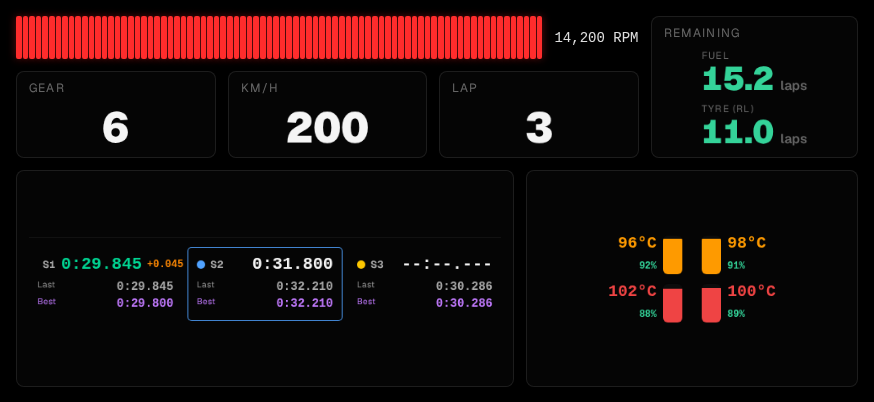
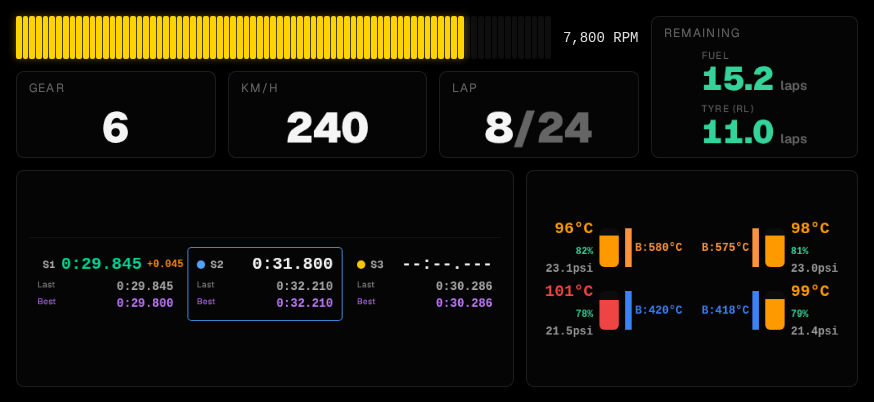
Use comprehensive visual-contract stories for Storybook snapshots (#321)
## Summary

Replace incidental Storybook snapshot targets with explicit,
deterministic visual-contract stories. Shared layouts now capture every
supported field in one representative image, while genuinely different
layouts and interaction states keep separate baselines.

## Problem

Storybook baselines previously mixed dedicated visual coverage with
ordinary simulator stories and default args. Combo Dash 1 and Combo Dash
2 used FM 2023 stories, so their images inherited FM 2023 capability
gaps and could omit supported brake temperatures or tire pressures.
Fixture-default changes could therefore create screenshot churn without
any component-layout change.

## Changes

- Add a simulator-independent `fakeAllDataTelemetryView` with coherent
engine, fuel, timing, tire, brake, weather, aero, ERS, damage, and
session values.
- Add dedicated `All Data` exports for Combo Dash 1 and Combo Dash 2
while preserving FM 2023, F1 2025, ACC, and AC Evo stories for manual
Storybook exploration.
- Rename simulator-specific live-dashboard snapshot exports to `Visual
Contract`, making their stable purpose explicit.
- Rename Setup Browser snapshot exports to `All Data` and `All Data Read
Only`.
- Point every dashboard snapshot case at an explicit story ID rather
than a default or first export.
- Document snapshot-selection rules beside the shared inventory:
comprehensive stories for shared layouts, separate baselines only for
layout or interaction contracts, and behavioral tests for simulator
[…]

diff --git a/client/src/stories/fakeData.ts b/client/src/stories/fakeData.ts
@@ -8,6 +8,7 @@ import type { LapMeta } from "../../../shared/racing/sessions/types";
 import type { LiveTelemetryFrameMessageV1, LiveTelemetrySchemaMessageV1 } from "../../../shared/telemetry/live/contracts";
 import type { TelemetryPacket } from "../../../shared/telemetry/types";
 import { buildLiveTelemetryView } from "../lib/live-telemetry-view";
+import type { LiveTelemetryView } from "../lib/live-telemetry-view";
 
 // ── Shared base packet fields ────────────────────────────────────────────────
 
@@ -614,6 +615,75 @@ export const fakeAcEvoPacket: TelemetryPacket = { ...fakeAccPacket, gameId: "ac-
 export const fakeForzaSemanticFixture = makeSemanticFixture(fakeForzaPacket);
 export const fakeAccSemanticFixture = makeSemanticFixture(fakeAccPacket);
 export const fakeAcEvoSemanticFixture = makeSemanticFixture(fakeAcEvoPacket);
+
+// Canonical visual-contract fixture. `simulator` satisfies telemetry-view
+// identity only; snapshot stories never derive field availability from it.
+export const fakeAllDataTelemetryView: LiveTelemetryView = {
+  simulator: "f1-2025",
+  streamId: "storybook-all-data",
+  sessionId: 1,
+  sequence: 1,
+  observedAtMs: basePacket.TimestampMS,
+  identity: {
+    carOrdinal: 42,
+    trackOrdinal: 7,
+    carClass: 6,
+    performanceIndex: 900,
+    drivetrainType: 1,
+  },
+  motion: {
+    speedMps: 66.7,
+    acceleration: { x: 0.12, z: 0.05 },
+    position: { x: 120.5, z: 340.2 },
+    attitude: { roll: 0.01, pitch: -0.02, yaw: 0.15 },
+    distanceM: 3240,
+  },
+  inputs: { throttle: 0.78, brake: 0, steer: 0.03, gear: 7 },
+  engine: { rpm: 7800, idleRpm: 1200, maxRpm: 9000, powerW: 430000, torqueNm: 580, boost: 0.6 },
+  fuel: { amount: 42.5, capacity: 110 },
+  timing: {
+    lapNumber: 8,
+    currentLapS: 61.645,
+    lastLapS: 92.341,
+    bestLapS: 91.98,
+    totalLaps: 24,
+    lapFraction: 0.6,
+    racePosition: 3,
+  },
+  tires: {
+    temperatureC: { fl: 96, fr: 98, rl: 101, rr: 99 },
+    wear: { fl: 0.18, fr: 0.19, rl: 0.22, rr: 0.21 },
+    pressurePsi: { fl: 23.1, fr: 23, rl: 21.5, rr: 21.4 },
+    slipAngleRad: { fl: 0.5, fr: 0.5, rl: 0.8, rr: 0.8 },
+    slipRatio: { fl: 0.02, fr: 0.02, rl: 0.04, rr: 0.04 },
+    combinedSlip: { fl: 0.6, fr: 0.6, rl: 0.9, rr: 0.9 },
+    rotationRadS: { fl: 180.5, fr: 181.2, rl: 183.4, rr: 182.8 },
+    suspensionNormalized: { fl: 0.42, fr: 0.44, rl: 0.48, rr: 0.46 },
+    suspensionTravelM: { fl: 0.025, fr: 0.026, rl: 0.028, rr: 0.027 },
+    brakeTemperatureC: { fl: 580, fr: 575, rl: 420, rr: 418 },
+    brakePadRemainingMm: { fl: 28.4, fr: 28.2, rl: 28.6, rr: 28.5 },
+    radiusM: { fl: 0.33, fr: 0.33, rl: 0.33, rr: 0.33 },
+    surfaceRumble: { fl: 0, fr: 0, rl: 0, rr: 0 },
+    puddleDepth: { fl: 0, fr: 0, rl: 0, rr: 0 },
+    onRumbleStrip: { fl: 0, fr: 0, rl: 0, rr: 0 },
+    compound: "soft",
+  },
+  weather: { kind: 0, airTemperatureC: 28, trackTemperatureC: 42, rainPercent: 15 },
+  aero: { drsActive: false, drsAvailable: true },
+  ers: { storeJ: 2800000, deployMode: 1, deployedThisLapJ: 800000, harvestedThisLapJ: 400000 },
+  damage: {
+    frontLeftWingPct: 0,
+    frontRightWingPct: 0,
+    rearWingPct: 0,
+    floorPct: 2,
+    diffuserPct: 0,
+    sidepodPct: 0,
+  },
+  session: { type: "Race" },
+  race: { pitStatus: 0 },
+  competitors: [],
+  statusBySemanticId: {},
+};
 
 // ── Sector Data ──────────────────────────────────────────────────────────────
 // We are on lap 5, partway through S2.

diff --git a/client/src/stories/snapshot-cases.ts b/client/src/stories/snapshot-cases.ts
@@ -12,47 +12,54 @@ export interface StorybookSnapshotCase {
 }
 
 // Single screenshot inventory for CI and `bun run ui:diff`.
-// Rendering environments may differ, but both paths must capture these cases.
+// Every case names a dedicated export. Shared layouts use comprehensive All Data
+// or All States stories; separate cases exist only for layout or interaction
+// contracts. Simulator capability differences belong in behavioral tests.
+// Never select a default or first export implicitly.
 export const DASHBOARD_SNAPSHOT_CASES: readonly StorybookSnapshotCase[] = [
+  // Distinct baselines: each simulator owns a different live-dashboard layout.
   {
     name: "F1LiveDashboard",
-    id: "dashboards-f1livedashboard--default",
+    id: "dashboards-f1livedashboard--visual-contract",
     outputName: "snapshot-F1LiveDashboard.png",
   },
   {
     name: "ForzaLiveDashboard",
-    id: "dashboards-forzalivedashboard--default",
+    id: "dashboards-forzalivedashboard--visual-contract",
     outputName: "snapshot-ForzaLiveDashboard.png",
   },
   {
     name: "AccLiveDashboard",
-    id: "dashboards-acclivedashboard--default",
+    id: "dashboards-acclivedashboard--visual-contract",
     outputName: "snapshot-AccLiveDashboard.png",
   },
+  // Distinct interaction contract: read-only setup browsing removes owner actions.
   {
     name: "SetupBrowser",
-    id: "setups-setupbrowser--default",
+    id: "setups-setupbrowser--all-data",
     outputName: "snapshot-SetupBrowser.png",
   },
   {
     name: "SetupBrowserReadOnly",
-    id: "setups-setupbrowser--read-only",
+    id: "setups-setupbrowser--all-data-read-only",
     outputName: "snapshot-SetupBrowserReadOnly.png",
   },
+  // Shared Combo layouts use simulator-independent fixtures with every supported field.
   {
     name: "ComboDash1",
-    id: "dashes-combo-combo-dash-1--fm-2023",
+    id: "dashes-combo-combo-dash-1--all-data",
     outputName: "snapshot-ComboDash1.png",
     viewport: { width: 874, height: 402 },
   },
   {
     name: "ComboDash2",
-    id: "dashes-combo-combo-dash-2--fm-2023",
+    id: "dashes-combo-combo-dash-2--all-data",
     outputName: "snapshot-ComboDash2.png",
     viewport: { width: 874, height: 402 },
   },
 ];
 
+// Dedicated All States story covers semantic text and interaction states together.
 export const THEME_SNAPSHOT_CASE: StorybookSnapshotCase = {
   name: "theme semantic states",
   id: "design-system-theme-contract--states",
@@ -62,6 +69,7 @@ export const THEME_SNAPSHOT_CASE: StorybookSnapshotCase = {
 };
 
 export const REUSABLE_UI_SNAPSHOT_CASES: readonly StorybookSnapshotCase[] = [
+  // Primitive stories enumerate visual variants or hold one deterministic open state.
   {
     name: "ReusableButtons",
     id: "ui-reusable-primitives--button-variants",
@@ -125,6 +133,7 @@ export const REUSABLE_UI_SNAPSHOT_CASES: readonly StorybookSnapshotCase[] = [
     viewport: { width: 900, height: 650 },
     readyRole: "menu",
   },
+  // Analysis panels use complete fixed frames; open menu is a distinct interaction state.
   {
     name: "AnalyseDataPanelParity",
     id: "screens-analysedatapanelparity--loaded-main-parity",

diff --git a/client/src/stories/dashes/ComboDash2.stories.tsx b/client/src/stories/dashes/ComboDash2.stories.tsx
@@ -5,7 +5,7 @@ import { useEffect } from "react";
 import type { GameId } from "../../../../shared/games/ids";
 import { ComboDash2 } from "../../components/dashes/ComboDash2";
 import { useGameStore } from "../../stores/game";
-import { fakeAccSemanticFixture, fakeAcEvoSemanticFixture, fakeF1SemanticFixture, fakeForzaSemanticFixture, generateFakeSessionLaps } from "../fakeData";
+import { fakeAccSemanticFixture, fakeAcEvoSemanticFixture, fakeAllDataTelemetryView, fakeF1SemanticFixture, fakeForzaSemanticFixture, generateFakeSessionLaps } from "../fakeData";
 import type { LiveTelemetryView } from "../../lib/live-telemetry-view";
 
 const queryClient = new QueryClient({
@@ -15,8 +15,10 @@ const queryClient = new QueryClient({
 const MAX_LAPS = 100;
 
 type Game = "fm-2023" | "f1-2025" | "acc" | "ac-evo";
+type Fixture = Game | "all-data";
 
-const VIEWS: Record<Game, LiveTelemetryView> = {
+const VIEWS: Record<Fixture, LiveTelemetryView> = {
+  "all-data": fakeAllDataTelemetryView,
   "fm-2023": fakeForzaSemanticFixture.view,
   "f1-2025": fakeF1SemanticFixture.view,
   acc: fakeAccSemanticFixture.view,
@@ -42,16 +44,15 @@ function GameIdSync({ game }: { game: Game }) {
 }
 
 interface Args {
-  game: Game;
+  game: Fixture;
   lapCount: number;
 }
 
 function render({ game, lapCount }: Args) {
   const laps = generateFakeSessionLaps(lapCount);
-  const view = VIEWS[game];
   return (
     <QueryClientProvider client={queryClient}>
-      <GameIdSync game={game} />
+      {game === "all-data" ? null : <GameIdSync game={game} />}
       <div
         style={{
           position: "relative",
@@ -62,7 +63,7 @@ function render({ game, lapCount }: Args) {
           transform: "translateZ(0)",
         }}
       >
-        {withRouter(<ComboDash2 view={view} sessionLaps={laps} />)}
+        {withRouter(<ComboDash2 view={VIEWS[game]} sessionLaps={laps} />)}
       </div>
     </QueryClientProvider>
   );
@@ -94,6 +95,12 @@ const meta: Meta<Args> = {
 
 export default meta;
 type Story = StoryObj<Args>;
+
+export const AllData: Story = {
+  name: "All Data",
+  args: { game: "all-data", lapCount: 10 },
+  render,
+};
 
 export const FM2023: Story = { name: "FM 2023", args: { game: "fm-2023" }, render };
 export const F12025: Story = { name: "F1 2025", args: { game: "f1-2025" }, render };

diff --git a/client/src/stories/dashes/ComboDash.stories.tsx b/client/src/stories/dashes/ComboDash.stories.tsx
@@ -5,15 +5,17 @@ import type { GameId } from "../../../../shared/games/ids";
 import { ComboDash } from "../../components/dashes/ComboDash";
 import { useGameStore } from "../../stores/game";
 import type { LiveTelemetryView } from "../../lib/live-telemetry-view";
-import { fakeAcEvoSemanticFixture, fakeAccSemanticFixture, fakeF1SemanticFixture, fakeForzaSemanticFixture, fakePit, fakeSectors } from "../fakeData";
+import { fakeAcEvoSemanticFixture, fakeAccSemanticFixture, fakeAllDataTelemetryView, fakeF1SemanticFixture, fakeForzaSemanticFixture, fakePit, fakeSectors } from "../fakeData";
 
 const queryClient = new QueryClient({
   defaultOptions: { queries: { retry: false, staleTime: Infinity } },
 });
 
 type Game = "fm-2023" | "f1-2025" | "acc" | "ac-evo";
+type Fixture = Game | "all-data";
 
-const VIEWS: Record<Game, LiveTelemetryView> = {
+const VIEWS: Record<Fixture, LiveTelemetryView> = {
+  "all-data": fakeAllDataTelemetryView,
   "fm-2023": fakeForzaSemanticFixture.view,
   "f1-2025": fakeF1SemanticFixture.view,
   acc: fakeAccSemanticFixture.view,
@@ -21,7 +23,7 @@ const VIEWS: Record<Game, LiveTelemetryView> = {
 };
 
 interface Args {
-  game: Game;
+  game: Fixture;
   rpm: number;
   gear: number;
   unitSystem: "metric" | "imperial";
@@ -45,7 +47,7 @@ function render({ game, rpm, gear, unitSystem }: Args) {
   };
   return (
     <QueryClientProvider client={queryClient}>
-      <GameIdSync game={game} />
+      {game === "all-data" ? null : <GameIdSync game={game} />}
       <div
         style={{
           position: "relative",
@@ -101,6 +103,12 @@ const meta: Meta<Args> = {
 
 export default meta;
 type Story = StoryObj<Args>;
+
+export const AllData: Story = {
+  name: "All Data",
+  args: { game: "all-data", rpm: 7800, gear: 7, unitSystem: "metric" },
+  render,
+};
 
 export const FM2023: Story = {
   name: "FM 2023",

diff --git a/client/src/stories/SetupBrowser.stories.tsx b/client/src/stories/SetupBrowser.stories.tsx
@@ -118,7 +118,7 @@ const meta: Meta<typeof SetupBrowser> = {
 export default meta;
 type Story = StoryObj<typeof SetupBrowser>;
 
-export const Default: Story = {
+export const AllData: Story = {
   args: {
     rows,
     carNames,
@@ -135,9 +135,9 @@ export const Default: Story = {
   },
 };
 
-export const ReadOnly: Story = {
+export const AllDataReadOnly: Story = {
   args: {
-    ...Default.args,
+    ...AllData.args,
     readOnly: true,
   },
 };

diff --git a/client/src/stories/ForzaLiveDashboard.stories.tsx b/client/src/stories/ForzaLiveDashboard.stories.tsx
@@ -52,4 +52,4 @@ const meta: Meta<typeof ForzaLiveDashboard> = {
 export default meta;
 type Story = StoryObj<typeof ForzaLiveDashboard>;
 
-export const Default: Story = {};
+export const VisualContract: Story = {};

diff --git a/client/src/stories/AccLiveDashboard.stories.tsx b/client/src/stories/AccLiveDashboard.stories.tsx
@@ -52,4 +52,4 @@ const meta: Meta<typeof AccLiveDashboard> = {
 export default meta;
 type Story = StoryObj<typeof AccLiveDashboard>;
 
-export const Default: Story = {};
+export const VisualContract: Story = {};

diff --git a/client/src/stories/F1LiveDashboard.stories.tsx b/client/src/stories/F1LiveDashboard.stories.tsx
@@ -56,4 +56,4 @@ const meta: Meta<typeof F1LiveDashboard> = {
 export default meta;
 type Story = StoryObj<typeof F1LiveDashboard>;
 
-export const Default: Story = {};
+export const VisualContract: Story = {};

diff --git a/CHANGELOG.md b/CHANGELOG.md
@@ -86,6 +86,7 @@
 - Keep live track maps from repeatedly refreshing track boundaries after boundary data loads
 
 ### Internal
+- Use explicit comprehensive Storybook stories for visual baselines so shared layouts cover every supported field without simulator fixture churn
 - Benchmark telemetry parser and replay performance with reproducible Mitata CPU guardrails and separate report-only storage I/O measurements
 - Speed Vite development startup with compact locale modules, no development declarations, cached unchanged compiles, and pinned Inlang compiler modules
 - Parallelize Bun unit and integration test execution with dedicated suites and isolated databases
